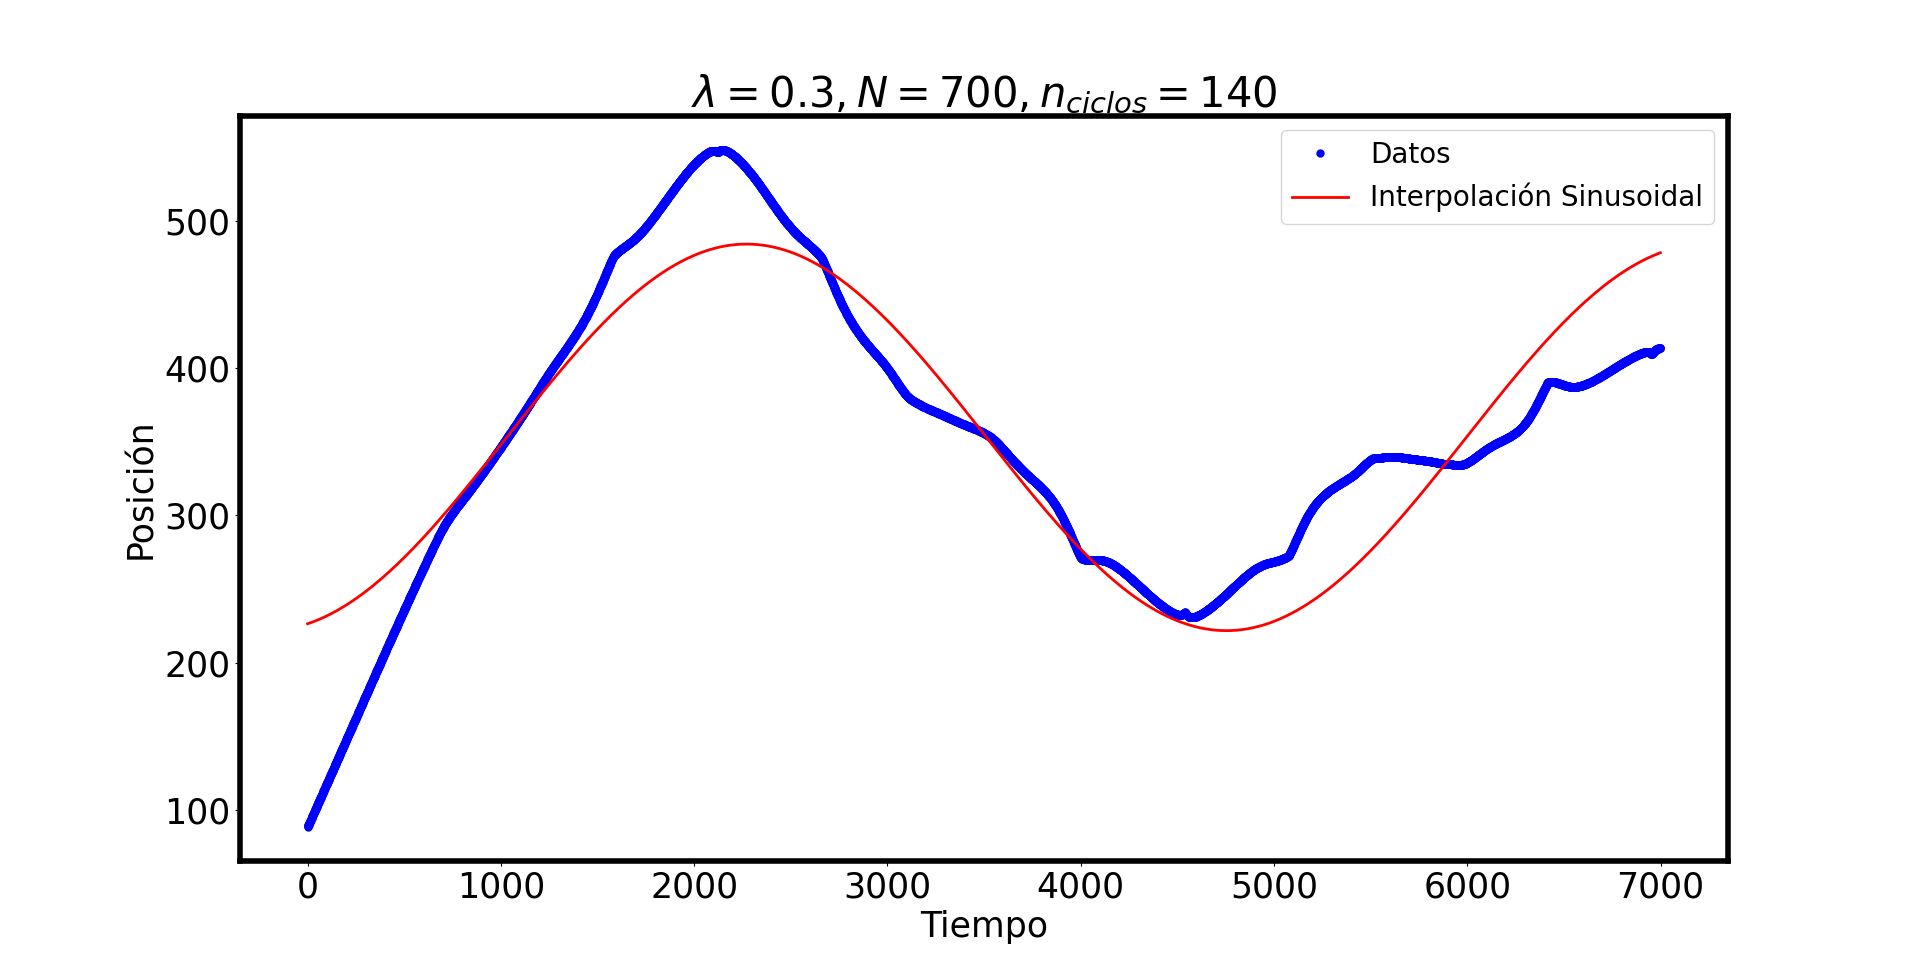
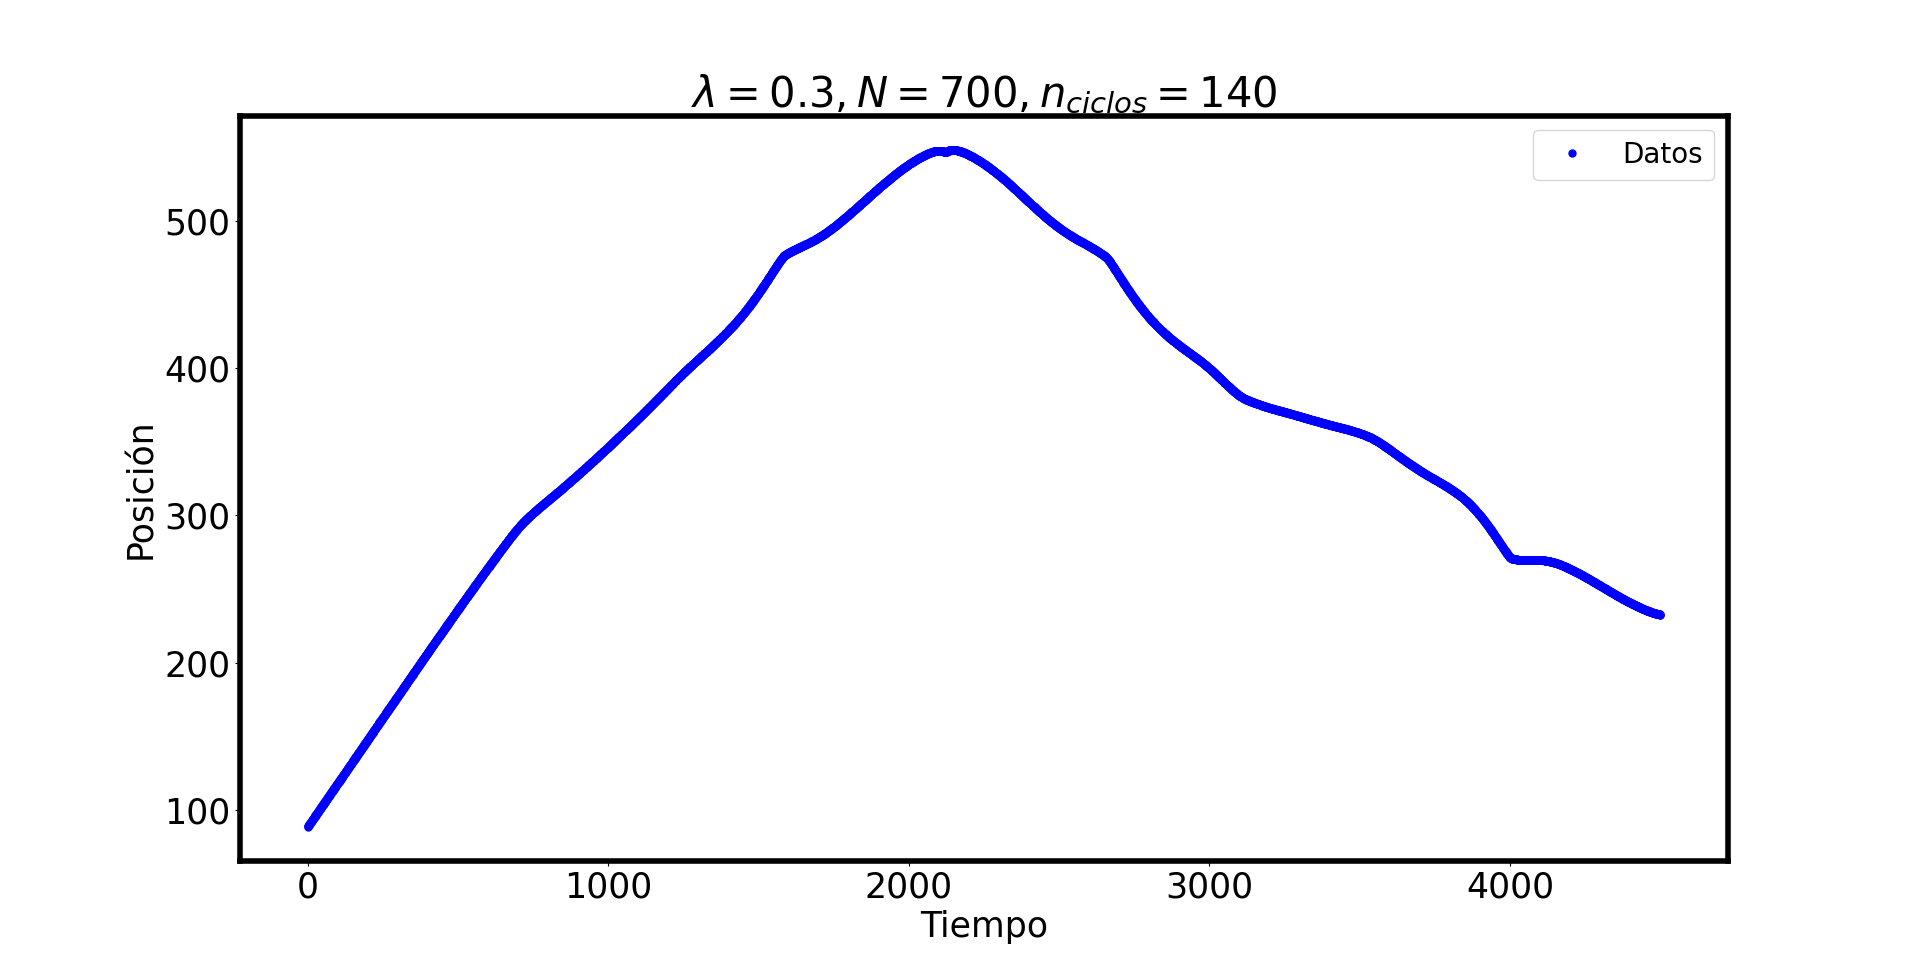
"mas cambios"

diff --git a/voluntario_3/código/schrodinger_t.c b/voluntario_3/código/schrodinger_t.c
@@ -34,11 +34,11 @@ int main()
     srand(time(NULL));
 
     //Ficheros
-    //FILE *PELI = fopen("posicion.dat", "w");
-    //FILE *CINE = fopen("cinetica.dat", "w");
+    FILE *PELI = fopen("posicion.dat", "w");
+    FILE *CINE = fopen("cinetica.dat", "w");
 
-    //fprintf(PELI, "x;y\n"); //Cabecera de los ficheros para generar un plot
-    //fprintf(CINE, "x;y\n");
+    fprintf(PELI, "x;y\n"); //Cabecera de los ficheros para generar un plot
+    fprintf(CINE, "x;y\n");
 
     //Asignamos memoria dinámica
     psi = (double complex*)malloc((N+1) * sizeof(double complex));
@@ -59,7 +59,7 @@ int main()
     encontrado = 0;
     p_dere = 0;
     lambda = 0.3;
-    nciclos = 50; //N / 5; //N/100;
+    nciclos = N / 5; //N/100;
     ko = 2 * PI * nciclos / N;
     s = 1 / (4.0 * ko * ko);
     dist = sep - width;
@@ -70,7 +70,6 @@ int main()
 
     // Inicialización del potencial
     
-    /*
     for (int j = 0; j < (2 * N / 5); j++) 
     {
         V[j] = 0.0;
@@ -84,9 +83,9 @@ int main()
     for (int j = (3 * N / 5) + 1; j < N + 1; j++) 
     {
         V[j] = 0.0;
-    }*/
+    }
 
-
+    /*
     for (int i = 0; i < 300; i++) 
     {
         V[i] = 0;
@@ -104,7 +103,7 @@ int main()
                 V[i] = 0.0;
             }
         }
-    }
+    }*/
 
     // Inicializa la función psi
     nacimiento(psi, ko);
@@ -164,8 +163,8 @@ int main()
         T[j] = cinetica(D2psi, psi2);
         mediaT += T[j];
 
-        //fprintf(PELI, "%d;%f\n", j, x[j]);
-        //fprintf(CINE, "%d;%f\n", j, T[j]);
+        fprintf(PELI, "%d;%f\n", j, x[j]);
+        fprintf(CINE, "%d;%f\n", j, T[j]);
     }
 
     mediax = mediax / (N * 10);
@@ -174,8 +173,8 @@ int main()
     e_x = desviacion(x, mediax);
     e_T = desviacion(T, mediaT);
 
-    //printf("El valor esperado de la posición es: %f;%f\n", mediax, e_x);
-    //printf("El valor esperado de la energía cinética es: %f;%f\n", mediaT, e_T);
+    printf("El valor esperado de la posición es: %f;%f\n", mediax, e_x);
+    printf("El valor esperado de la energía cinética es: %f;%f\n", mediaT, e_T);
     
     p_dere = p_dere / norma;
     
@@ -191,8 +190,8 @@ int main()
         }
     }
     
-    //printf("El valor de K es: %f\n", 1.0*m_t/1000.0); //1000 iteraciones
-    //printf("El valor de la probabilidad a la derecha es: %f\n", p_dere);
+    printf("El valor de K es: %f\n", 1.0*m_t/1000.0); //1000 iteraciones
+    printf("El valor de la probabilidad a la derecha es: %f\n", p_dere);
 
     free(psi);
     free(psi2);
@@ -206,8 +205,8 @@ int main()
     free(x);
     free(T);
 
-    //fclose(PELI);
-    //fclose(CINE);
+    fclose(PELI);
+    fclose(CINE);
 
     return 0;
 }

diff --git a/voluntario_3/código/comparador.py b/voluntario_3/código/comparador.py
@@ -1,0 +1,58 @@
+import pandas as pd
+import numpy as np
+import matplotlib.pyplot as plt
+
+try:
+    # Lista de ficheros de datos y colores
+    file_names = ['./JOEL.dat', './O2.dat', './O3.dat']
+    colors = ['b', 'r', 'g']
+    labels = ['JOEL AMD', 'PC + O2', 'PC + O3']
+
+    # Crear la figura
+    fig = plt.figure(figsize=[18, 12])
+    ax = fig.gca()
+
+    for i, file_name in enumerate(file_names):
+        # Lectura de datos
+        data = pd.read_csv(file_name, delimiter=';', header=0, names=['x', 'y'])
+        print(f"Lectura de datos exitosa para {file_name}.")
+        print(data)
+
+        # Ajuste de parábola
+        coef = np.polyfit(data.x, data.y, 2)
+
+        # Valores x para la parábola
+        x_values = np.linspace(min(data.x), max(data.x), 100)
+
+        # Evaluación de la parábola en los valores x
+        y_values = np.polyval(coef, x_values)
+
+        # Muestra los datos y la parábola ajustada
+        plt.plot(data.x, data.y, f'{colors[i]}.', markersize=10, label=labels[i])
+        plt.plot(x_values, y_values, f'{colors[i]}-', linewidth=2)
+
+    # Define límites y etiquetas de los ejes
+    plt.xlabel(r'Número de barreras', fontsize=25)
+    plt.ylabel(r'Tiempo de ejecución (s)', fontsize=25)
+
+    # Añade el título
+    plt.title('11th Gen Intel(R) Core(TM) i5-1135G7 @ 2.40GHz, 12GB RAM', fontsize=30)
+
+    # Modifica el grosor de los ejes
+    for axis in ['top', 'bottom', 'left', 'right']:
+        ax.spines[axis].set_linewidth(4)
+
+    # Formato de los "ticks" de los ejes
+    plt.tick_params(axis="x", labelsize=25, labelrotation=0, labelcolor="black")
+    plt.tick_params(axis="y", labelsize=25, labelrotation=0, labelcolor="black")
+
+    # Añade una leyenda
+    plt.legend(fontsize=20)
+
+    # Dibuja el gráfico
+    plt.show()
+
+except FileNotFoundError:
+    print("El archivo no se encontró. Verifique la ruta y el nombre del archivo.")
+except Exception as e:
+    print(f"Ocurrió un error: {e}")

diff --git a/voluntario_3/código/puntos_sin.py b/voluntario_3/código/puntos_sin.py
@@ -1,7 +1,5 @@
 import pandas as pd
-import numpy as np
 import matplotlib.pyplot as plt
-from scipy.optimize import curve_fit
 
 try:
     # Fichero de datos
@@ -13,35 +11,8 @@ try:
     # Muestra los datos originales
     fig, ax = plt.subplots(figsize=[18, 12])
     ax.plot(data.x, data.y, 'b.', markersize=10, label='Datos')
-    plt.xlabel('Tiempo', fontsize=25)
-    plt.ylabel('Posición', fontsize=25)
-    plt.title('Datos Originales', fontsize=30)
-    plt.show()
 
-    # Definición de la función sinusoidal
-    def sinusoidal(x, A, B, C, D):
-        return A * np.sin(B * x + C) + D
-
-    # Valores iniciales para los parámetros
-    A_init = (data.y.max() - data.y.min()) / 2
-    B_init = 2 * np.pi / (data.x.max() - data.x.min())
-    C_init = 0
-    D_init = data.y.mean()
-    p0 = [A_init, B_init, C_init, D_init]
-
-    # Ajuste de los datos a la función sinusoidal
-    params, params_covariance = curve_fit(sinusoidal, data.x, data.y, p0=p0)
-
-    # Generar nuevos puntos para la curva ajustada
-    x_new = np.linspace(data.x.min(), data.x.max(), 500)
-    y_new = sinusoidal(x_new, *params)
-
-    # Muestra los datos y la curva ajustada
-    fig, ax = plt.subplots(figsize=[18, 12])
-    ax.plot(data.x, data.y, 'b.', markersize=10, label='Datos')
-    ax.plot(x_new, y_new, 'r-', linewidth=2, label='Interpolación Sinusoidal')
-
-    # Define límites y etiquetas de los ejes
+    # Configuración del gráfico
     plt.xlabel('Tiempo', fontsize=25)
     plt.ylabel('Posición', fontsize=25)
     plt.title('$\lambda = 0.3, N = 700, n_{ciclos} = 140 $', fontsize=30)

diff --git a/voluntario_3/código/regresion_exp.py b/voluntario_3/código/regresion_exp.py
@@ -2,6 +2,7 @@ import pandas as pd
 import numpy as np
 import matplotlib.pyplot as plt
 from scipy.optimize import curve_fit
+from scipy.stats import chisquare, pearsonr
 
 # Definición de la función exponencial decreciente con desplazamiento
 def exp_decreasing_func(x, a, b, c):
@@ -25,9 +26,21 @@ try:
     popt, pcov = curve_fit(exp_decreasing_func, data.x, data.y, sigma=data.dy, absolute_sigma=True)
     a, b, c = popt
 
+    # Imprime los parámetros del ajuste
+    print(f"Parámetros del ajuste: a = {a}, b = {b}, c = {c}")
+
     # Generación de nuevos datos basados en el ajuste exponencial decreciente con desplazamiento
     x_new = np.linspace(data.x.min(), data.x.max(), 500)
     y_exp = exp_decreasing_func(x_new, a, b, c)
+
+    # Cálculo del chi cuadrado
+    residuals = data.y - exp_decreasing_func(data.x, a, b, c)
+    chi2 = np.sum((residuals / data.dy) ** 2)
+    print(f"Chi cuadrado: {chi2}")
+
+    # Cálculo del coeficiente de Pearson
+    pearson_corr, _ = pearsonr(data.y, exp_decreasing_func(data.x, a, b, c))
+    print(f"Coeficiente de Pearson: {pearson_corr}")
 
     # Curva ajustada exponencial
     plt.plot(x_new, y_exp, label='Interpolación exponencial decreciente', linewidth=2, alpha=0.7, color='red')
